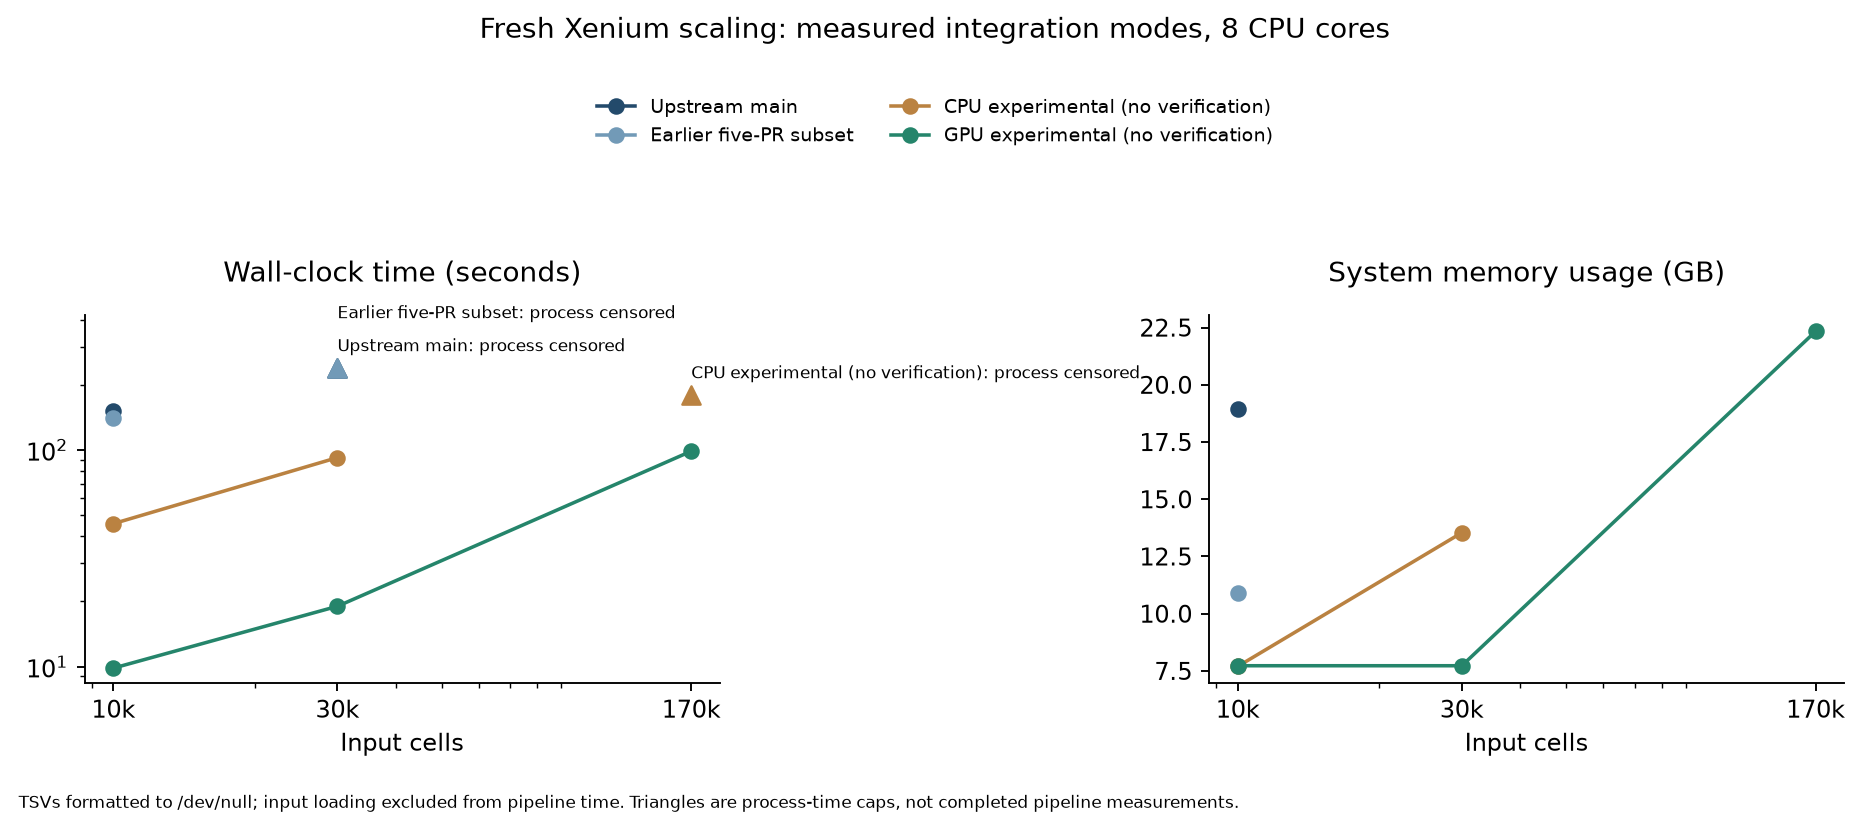
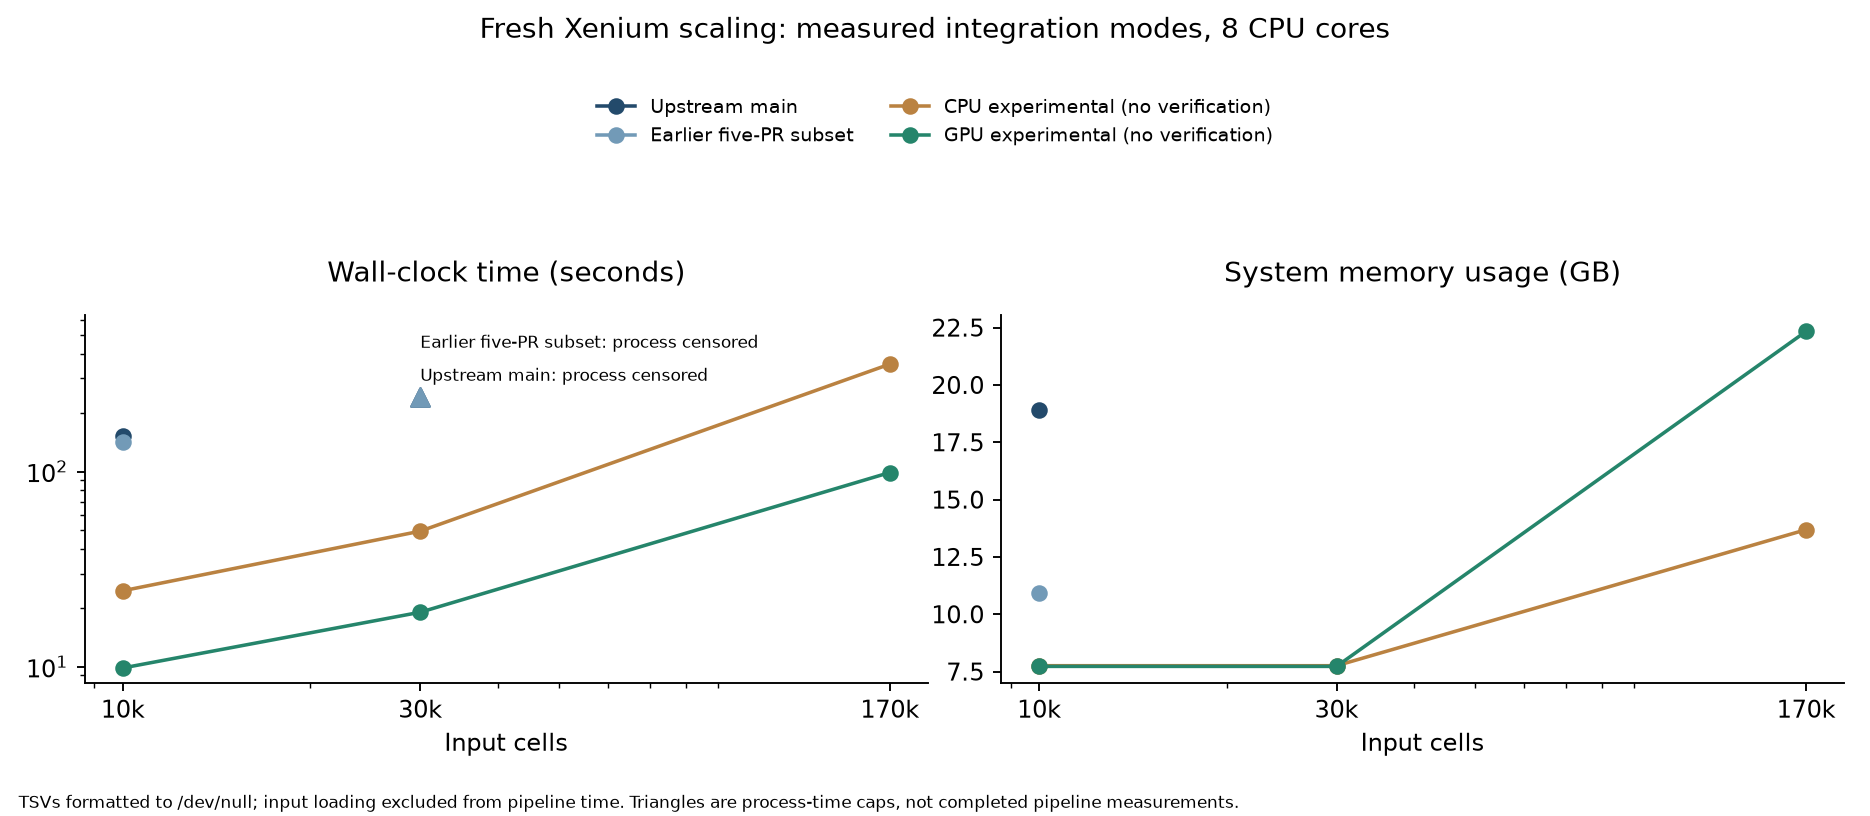
docs: Show the cpu-experimental tip in the scaling and serial charts
scaling.png and serial8-scaling.png (with benchmark-scaling.md and
benchmark-serial.md) still plotted the earlier perf/exact-shortcuts stack
as "CPU experimental". They now show cpu-experimental at 90e8885, run under
the same conditions as the other series (8 cores pinned to CPUs 0-7, no
heatmap, large tables to /dev/null):

- scaling: 10k 24.5 s, 30k 49.4 s, 170k 355.4 s (13.7 GB), all completed;
  the old 30k/170k points were timeouts (92 s at 30k, censored at 170k).
- serial repeats: two rounds at 2k-40k (16 new runs; 40k 67.0 s against
  473.3 s before). The repeats' outputs are identical to each other.

The scope text in benchmark-scaling.md and scaling_report.py describes the
new series.

diff --git a/benchmarks/reports/scaling_report.py b/benchmarks/reports/scaling_report.py
@@ -87,7 +87,9 @@ lines = [
     "47m10s in baseline estimation, 69m29s in baseline adjustment and 58m24s in "
     "final prediction, before finishing the heatmap. "
     "That older log is from d23282b, not actual main, and is not a completed runtime or a fresh result. "
-    "The fresh larger-CPU-stack run is bounded to 180 seconds. Any timeout is a "
+    "The earlier larger-CPU-stack run (`perf/exact-shortcuts`) was bounded to 180 seconds; the CPU "
+    "experimental column now shows the `cpu-experimental` tip, whose 10k, 30k and 170k runs (8 cores pinned, "
+    "no timeout) all completed. Any timeout in the other columns is a "
     "censored observation, not a completed timing. "
     "No 170k speedup ratio is inferred from that partial log.",
     "",

diff --git a/docs/benchmark-serial.md b/docs/benchmark-serial.md
@@ -1,8 +1,8 @@
 # Serial 2k–40k repeat benchmarks
 
-Last refreshed: 2026-10-10 12:53:34 UTC.
+Last refreshed: 2026-10-11 15:34:57 UTC.
 
-Currently proposed changes = pinned upstream main `ea1a15c` plus performance PRs `#4`, `#5`, `#6`, `#7`, `#8` and `#9`. The six-PR filesystem snapshot includes the Arrow writer. Its serial follow-up sweep is underway after accuracy completed; current running and queued states appear in the CPU-accounted report. The original five-PR snapshot of PRs #4 and #6–#9 excluded #5; its evidence is retained in the historical archives. The open CLI fix #3 is outside both performance snapshots. CPU experimental (no verification) = `perf/exact-shortcuts` at `ff63f19`, with Arrow output, memory/storage refactors, Ward-engine and repeated-bin changes. This broader experimental integration is distinct from the open-PR snapshots. These benchmark records are pinned to their source snapshots; subsequent Git branch construction is documented in `fork-integration-audit.md`.
+Currently proposed changes = pinned upstream main `ea1a15c` plus performance PRs `#4`, `#5`, `#6`, `#7`, `#8` and `#9`. The six-PR filesystem snapshot includes the Arrow writer. Its serial follow-up sweep is underway after accuracy completed; current running and queued states appear in the CPU-accounted report. The original five-PR snapshot of PRs #4 and #6–#9 excluded #5; its evidence is retained in the historical archives. The open CLI fix #3 is outside both performance snapshots. CPU experimental (no verification) = the `cpu-experimental` branch at `90e8885` (a new CPU stack that replaces the earlier `perf/exact-shortcuts` at `ff63f19`), run pinned to eight physical cores. Several of its commits are tagged `[NUMERICAL CHANGE]`, so its output checks below differ from upstream main by design; see `benchmark-cpu-experimental.md` for what each commit changes and the accuracy comparison. This broader experimental integration is distinct from the open-PR snapshots. These benchmark records are pinned to their source snapshots; subsequent Git branch construction is documented in `fork-integration-audit.md`.
 
 Status: serial phase started.
 
@@ -28,14 +28,14 @@ Means use only successful runs from this serial phase. Parallel measurements and
 | 25,000 | Currently proposed changes (6 PRs) | 2 / 2 | ok, ok | 439.16 ± 0.98 | 579.22 ± 1.60 | 438.47–439.85 |
 | 30,000 | Currently proposed changes (6 PRs) | 2 / 2 | ok, ok | 636.11 ± 4.33 | 806.54 ± 6.80 | 633.05–639.17 |
 | 40,000 | Currently proposed changes (6 PRs) | 2 / 2 | ok, ok | 1125.95 ± 1.81 | 1352.76 ± 0.03 | 1124.67–1127.23 |
-| 2,000 | CPU experimental (no verification) | 2 / 2 | ok, ok | 12.79 ± 0.01 | 19.04 ± 0.08 | 12.79–12.80 |
-| 5,000 | CPU experimental (no verification) | 2 / 2 | ok, ok | 11.56 ± 0.07 | 29.73 ± 0.20 | 11.50–11.61 |
-| 10,000 | CPU experimental (no verification) | 2 / 2 | ok, ok | 20.55 ± 0.12 | 59.53 ± 0.12 | 20.46–20.63 |
-| 15,000 | CPU experimental (no verification) | 2 / 2 | ok, ok | 31.06 ± 0.09 | 96.60 ± 0.25 | 30.99–31.12 |
-| 20,000 | CPU experimental (no verification) | 2 / 2 | ok, ok | 56.32 ± 0.58 | 155.39 ± 1.96 | 55.91–56.73 |
-| 25,000 | CPU experimental (no verification) | 2 / 2 | ok, ok | 63.64 ± 0.01 | 156.02 ± 0.53 | 63.63–63.65 |
-| 30,000 | CPU experimental (no verification) | 2 / 2 | ok, ok | 79.69 ± 0.21 | 200.86 ± 0.07 | 79.55–79.84 |
-| 40,000 | CPU experimental (no verification) | 2 / 2 | ok, ok | 473.30 ± 0.61 | 613.05 ± 1.72 | 472.87–473.73 |
+| 2,000 | CPU experimental (no verification) | 2 / 2 | ok, ok | 15.12 ± 0.00 | 17.93 ± 0.06 | 15.12–15.12 |
+| 5,000 | CPU experimental (no verification) | 2 / 2 | ok, ok | 13.86 ± 0.27 | 39.42 ± 0.71 | 13.67–14.04 |
+| 10,000 | CPU experimental (no verification) | 2 / 2 | ok, ok | 24.01 ± 0.28 | 71.79 ± 1.47 | 23.81–24.21 |
+| 15,000 | CPU experimental (no verification) | 2 / 2 | ok, ok | 29.17 ± 0.15 | 95.53 ± 0.33 | 29.06–29.27 |
+| 20,000 | CPU experimental (no verification) | 2 / 2 | ok, ok | 40.76 ± 0.49 | 134.68 ± 2.55 | 40.42–41.10 |
+| 25,000 | CPU experimental (no verification) | 2 / 2 | ok, ok | 43.10 ± 0.67 | 168.46 ± 2.83 | 42.62–43.58 |
+| 30,000 | CPU experimental (no verification) | 2 / 2 | ok, ok | 50.72 ± 0.69 | 212.05 ± 4.05 | 50.23–51.22 |
+| 40,000 | CPU experimental (no verification) | 2 / 2 | ok, ok | 67.02 ± 0.57 | 310.00 ± 1.49 | 66.61–67.42 |
 | 2,000 | GPU experimental (no verification) | 2 / 2 | ok, ok | 6.73 ± 1.68 | 5.80 ± 0.37 | 5.54–7.91 |
 | 5,000 | GPU experimental (no verification) | 2 / 2 | ok, ok | 7.24 ± 0.05 | 7.23 ± 0.04 | 7.20–7.27 |
 | 10,000 | GPU experimental (no verification) | 2 / 2 | ok, ok | 8.24 ± 0.01 | 8.24 ± 0.00 | 8.23–8.25 |

diff --git a/docs/benchmark-scaling.md b/docs/benchmark-scaling.md
@@ -10,15 +10,15 @@ CPU/GPU modes use recorded Python environments and dependencies. Inputs and calc
 
 | Input cells | Final cells (GPU) | Upstream main, s | Earlier five-PR subset, s | CPU experimental (no verification), s | GPU experimental (no verification), s |
 |---:|---:|---|---|---|---|
-| 10,000 | 7,763 | 152.3 | 140.9 | 45.7 | 9.8 |
-| 30,000 | 23,357 | timeout at 240s process time | timeout at 240s process time | 92.3 | 19.0 |
-| 170,057 | 132,027 | not attempted | not attempted | timeout at 180s process time | 98.8 |
+| 10,000 | 7,763 | 152.3 | 140.9 | 24.5 | 9.8 |
+| 30,000 | 23,357 | timeout at 240s process time | timeout at 240s process time | 49.4 | 19.0 |
+| 170,057 | 132,027 | not attempted | not attempted | 355.4 | 98.8 |
 
 ![Fresh Xenium scaling](benchmark-assets/scaling.png)
 
-Currently proposed changes = pinned upstream main `ea1a15c` plus performance PRs `#4`, `#5`, `#6`, `#7`, `#8` and `#9`. The six-PR filesystem snapshot includes the Arrow writer; its fresh follow-up sweep is underway after the accuracy phase, with current run status in the CPU-accounted report. Earlier five-PR subset = the original snapshot of PRs #4 and #6–#9; it excluded #5 and remains visible under this historical label. The open CLI fix #3 is outside both performance snapshots. CPU experimental (no verification) = `perf/exact-shortcuts` at `ff63f19`, with Arrow output, memory/storage refactors, Ward-engine and repeated-bin changes. This broader experimental integration is distinct from the open-PR snapshots. Source pins and patch order are recorded; no Git branch or ref was changed. GPU = `hardcore-optimization` at `14aae8d`, `backend=gpu`, default Monte Carlo KS. These integration timings do not isolate individual candidates or justify classifying the larger stacks as bit-identical.
+Currently proposed changes = pinned upstream main `ea1a15c` plus performance PRs `#4`, `#5`, `#6`, `#7`, `#8` and `#9`. The six-PR filesystem snapshot includes the Arrow writer; its fresh follow-up sweep is underway after the accuracy phase, with current run status in the CPU-accounted report. Earlier five-PR subset = the original snapshot of PRs #4 and #6–#9; it excluded #5 and remains visible under this historical label. The open CLI fix #3 is outside both performance snapshots. CPU experimental (no verification) = the `cpu-experimental` branch at `90e8885` (a new CPU stack that replaces the earlier `perf/exact-shortcuts` at `ff63f19`), with parallel and streaming CPU stages, a float32 bins matrix and a reciprocal-nearest-neighbour Ward engine; several of its commits change numbers (see `benchmark-cpu-experimental.md`). This broader experimental integration is distinct from the open-PR snapshots. Source pins and patch order are recorded; no Git branch or ref was changed. GPU = `hardcore-optimization` at `14aae8d`, `backend=gpu`, default Monte Carlo KS. These integration timings do not isolate individual candidates or justify classifying the larger stacks as bit-identical.
 
-At 170k, no fresh actual-main or five-candidate run was attempted: the saved pre-GPU 170k log already spends 47m10s in baseline estimation, 69m29s in baseline adjustment and 58m24s in final prediction, before finishing the heatmap. That older log is from d23282b, not actual main, and is not a completed runtime or a fresh result. The fresh larger-CPU-stack run is bounded to 180 seconds. Any timeout is a censored observation, not a completed timing. No 170k speedup ratio is inferred from that partial log.
+At 170k, no fresh actual-main or five-candidate run was attempted: the saved pre-GPU 170k log already spends 47m10s in baseline estimation, 69m29s in baseline adjustment and 58m24s in final prediction, before finishing the heatmap. That older log is from d23282b, not actual main, and is not a completed runtime or a fresh result. The earlier larger-CPU-stack run (`perf/exact-shortcuts`) was bounded to 180 seconds; the CPU experimental column now shows the `cpu-experimental` tip, whose 10k, 30k and 170k runs (8 cores pinned, no timeout) all completed. Any timeout in the other columns is a censored observation, not a completed timing. No 170k speedup ratio is inferred from that partial log.
 
 ## What the conservative bundle preserves
 
